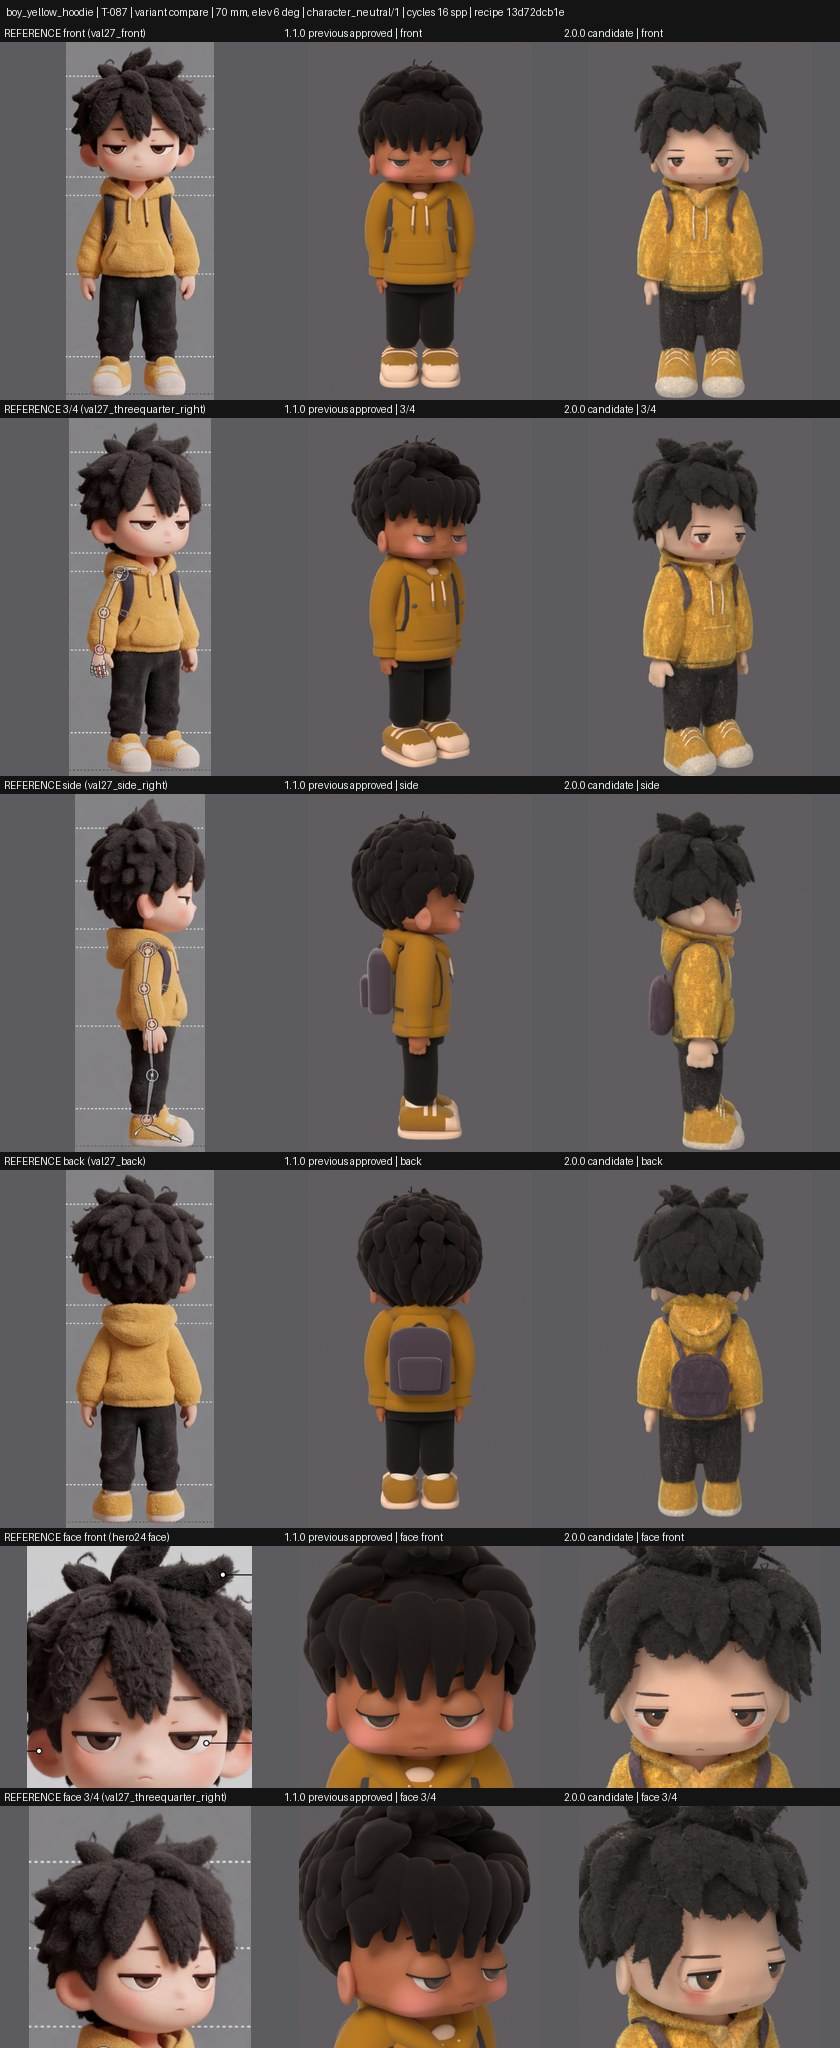
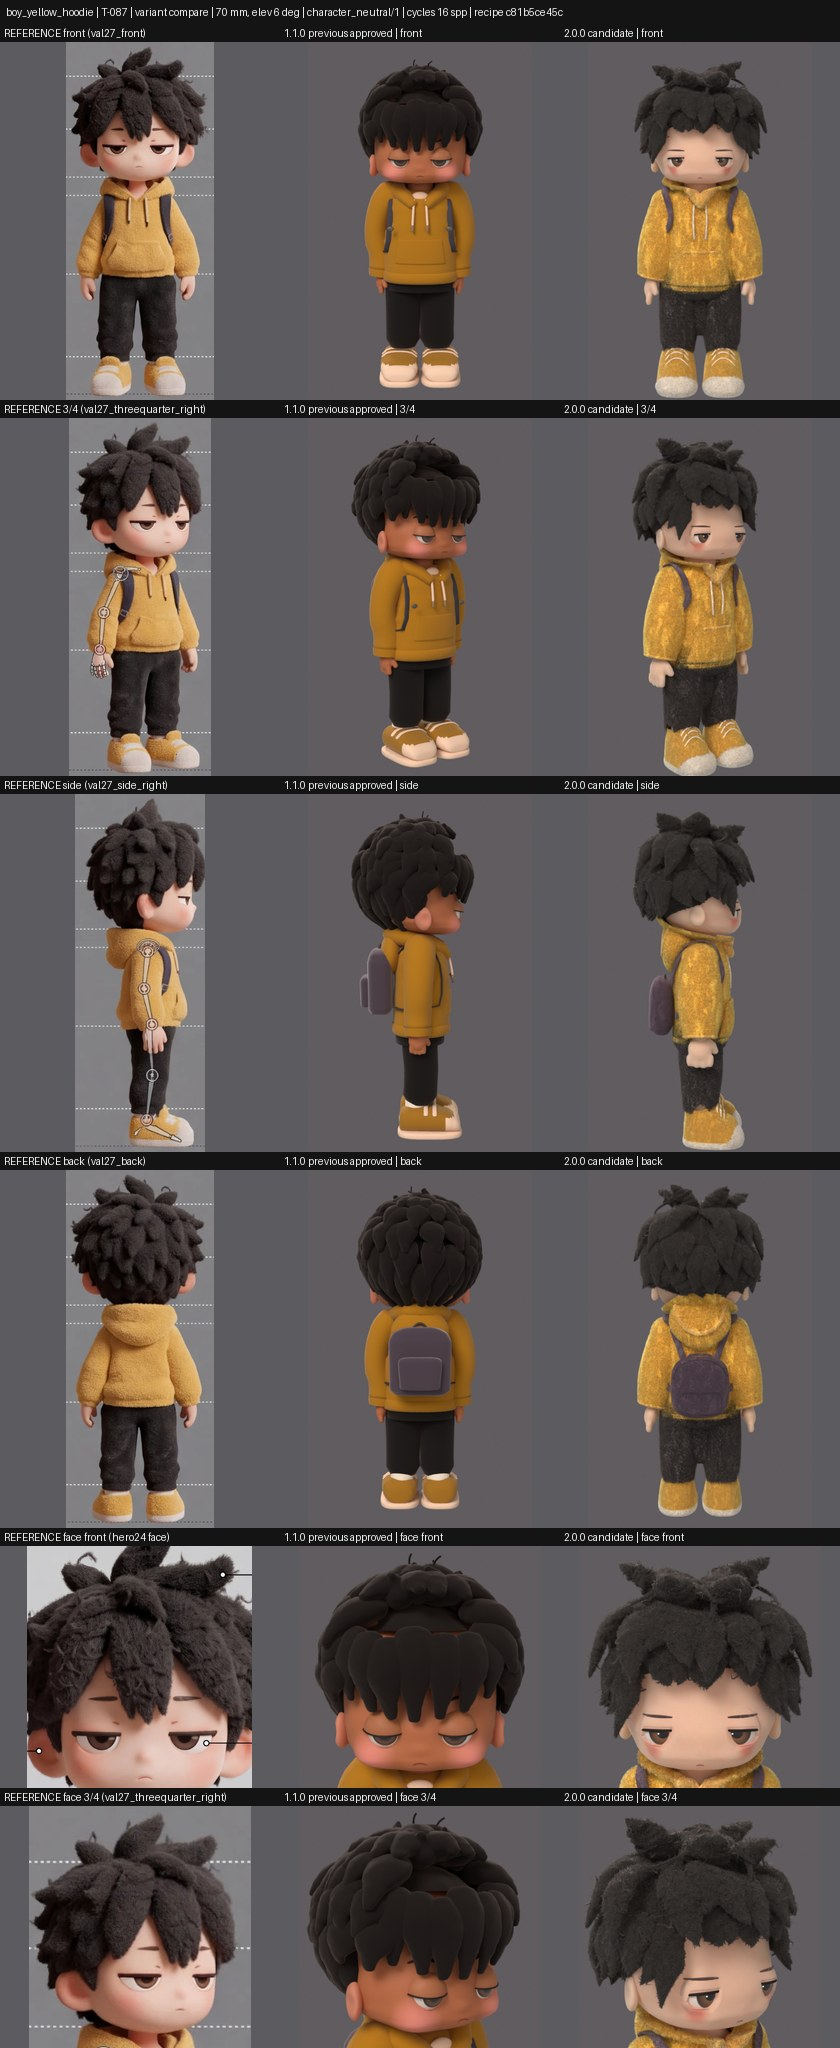
T-087: regression job flags >2-point fidelity drop (needs owner review, image checks unchanged) + test; strict sheet face rows framed on head bounds; regenerated boy sheet
Claude-Session: https://claude.ai/code/session_01NPjxeLy8LE79Ttrgoxqp6S

Changed region(s): [[0.681, 0.75, 0.9905, 1.0], [0.3405, 0.75, 0.65, 1.0]]

diff --git a/tools/regression/run.py b/tools/regression/run.py
@@ -10,7 +10,8 @@ For every character in assets/characters (or the given ones), in parallel:
   3. export     pipeline/charsys/export_engine.py (engine package; digest without the .blend byte hash)
   4. renders    pipeline/charsys/tools/groom_turnaround.py with the fixed cameras of tools/regression/views.json
                 (turnaround + face close-up, low samples, fixed seed, OIDN)
-  5. fidelity   tools/fidelity/run.py, score vs docs/evaluation/characters/fidelity_baseline.json (drop > 2 = FAIL)
+  5. fidelity   tools/fidelity/run.py, score vs docs/evaluation/characters/fidelity_baseline.json (drop > 2 = PASS,
+                flagged "needs owner review": T-087 rule change, tools/fidelity/ci.compare_score)
   6. compare    against the approved baseline docs/evaluation/regression/baselines/<id>/<spec version>/
 Characters whose spec inputs are unchanged versus --base must be identical to the approved baseline (= main):
 fingerprint byte-equal, export digest equal, every render within the measured noise threshold
@@ -40,6 +41,8 @@ HERE = Path(__file__).resolve().parent
 ROOT = HERE.parents[1]
 sys.path.insert(0, str(HERE))
 import tiers  # noqa: E402
+sys.path.insert(0, str(HERE.parent))
+from fidelity import ci as fidelity_ci  # noqa: E402  (T-087: one fidelity-drop policy for every gate path)
 
 VIEWS = HERE / "views.json"
 NOISE = HERE / "render_noise_threshold.json"
@@ -274,6 +277,21 @@ class Step(Exception):
     pass
 
 
+def fidelity_result(score: float, baseline: float, maximum: float) -> dict:
+    """Fidelity entry of a character result. T-087: a drop above `maximum` passes, flagged "needs owner review"
+    (tools/fidelity/ci.compare_score, the policy of every gate path); image checks are unaffected."""
+    drop = round(float(baseline) - float(score), 4)
+    policy = fidelity_ci.compare_score(score, baseline, maximum)
+    return {"score": round(float(score), 4), "baseline": baseline, "drop": drop, "maximum_drop": maximum,
+            "ok": policy.ok, "needs_owner_review": policy.needs_owner_review}
+
+
+def owner_review_note(result: dict) -> str:
+    f = result.get("measured", {}).get("fidelity") or {}
+    return (f"; {fidelity_ci.OWNER_REVIEW_FLAG.upper()}: fidelity drop {f['drop']:+.2f} > {f['maximum_drop']}"
+            if f.get("needs_owner_review") else "")
+
+
 def produce(cfg: dict, blender: str, out: Path, env: dict, fidelity: bool) -> dict:
     """Build, export and render one character from the checkout cfg["root"] (this one, or a worktree of the
     comparison ref) into `out`; return the measured data. Fingerprint tool, cameras and probe always come from this
@@ -346,9 +364,7 @@ def produce(cfg: dict, blender: str, out: Path, env: dict, fidelity: bool) -> di
             raise Step(f"fidelity failed (exit {code}); see {log.as_posix()}")
         score = json.loads((fout / "fidelity.json").read_text(encoding="utf-8"))["overall"]["score"]
         maximum = float(baseline["policy"]["maximum_score_drop"])
-        drop = round(float(entry["score"]) - float(score), 4)
-        result["fidelity"] = {"score": round(float(score), 4), "baseline": entry["score"], "drop": drop,
-                              "maximum_drop": maximum, "ok": drop <= maximum}
+        result["fidelity"] = fidelity_result(score, entry["score"], maximum)
     return result
 
 
@@ -423,7 +439,9 @@ def compare(cfg: dict, data: dict, out: Path, golden_root: Path, unchanged: bool
 
     if "fidelity" in data:
         f = data["fidelity"]
-        check("fidelity", f["ok"], f"{f['score']:.2f} vs {float(f['baseline']):.2f} (drop {f['drop']:+.2f}, max {f['maximum_drop']})")
+        check("fidelity", f["ok"], f"{f['score']:.2f} vs {float(f['baseline']):.2f} (drop {f['drop']:+.2f}, max {f['maximum_drop']})"
+              + (f"; {fidelity_ci.OWNER_REVIEW_FLAG.upper()} (drop above the maximum, PASS with warning)"
+                 if f.get("needs_owner_review") else ""))
     if reference is not None:
         label = f"identical to {ref_label}" if unchanged else f"vs {ref_label} (spec changed, owner review)"
         for aspect, equal, detail in identity_checks(data, out / "fingerprint.json", reference,
@@ -539,6 +557,7 @@ def summary(results: list[dict]) -> str:
         text = f"{state} {r['character']} ({kind})"
         if failed:
             text += ": " + "; ".join(f"{c['name']} {c['detail']}" for c in failed)
+        text += owner_review_note(r)
         parts.append(text)
     return "\n".join(parts)
 
@@ -549,7 +568,7 @@ def write_gate_report(path: Path, report: dict) -> None:
     for r in report["results"]:
         failed = [c for c in r["checks"] if not c["ok"]]
         fidelity = r.get("measured", {}).get("fidelity")
-        note = f", fidelity {fidelity['score']:.2f}" if fidelity else ""
+        note = (f", fidelity {fidelity['score']:.2f}" if fidelity else "") + owner_review_note(r)
         kind = ("references only, not buildable yet" if r.get("not_buildable") else
                 "unchanged, identical to main" if r.get("unchanged") else "spec changed, owner review")
         detail = "; ".join(f"{c['name']}: {c['detail']}" for c in failed) or kind + note

diff --git a/tools/fidelity/tests/test_regression_flag.py b/tools/fidelity/tests/test_regression_flag.py
@@ -1,0 +1,91 @@
+#!/usr/bin/env python3
+"""T-087: the per-character regression job (tools/regression/run.py) flags a fidelity drop above 2 points as
+"needs owner review" and exits 0, and still fails on an image regression. Blender steps are stubbed (produce)."""
+
+import importlib.util
+import json
+from pathlib import Path
+import sys
+import tempfile
+import unittest
+from unittest import mock
+
+ROOT = Path(__file__).resolve().parents[3]
+# loaded under its own name: tools/fidelity/run.py already owns the module name "run" in this test process
+_spec = importlib.util.spec_from_file_location("regression_run", ROOT / "tools" / "regression" / "run.py")
+RR = importlib.util.module_from_spec(_spec)
+_spec.loader.exec_module(RR)
+
+try:
+    from PIL import Image
+except ImportError:  # pragma: no cover
+    Image = None
+
+
+@unittest.skipIf(Image is None, "Pillow missing")
+class RegressionFidelityFlagTests(unittest.TestCase):
+    def setUp(self):
+        self.tmp = tempfile.TemporaryDirectory()
+        t = Path(self.tmp.name)
+        self.t = t
+        self.cfg = {"character": "probe", "spec_version": "1.0.0", "spec_inputs_sha256": "abc", "inputs": []}
+        gdir = t / "golden" / "probe" / "1.0.0"
+        (gdir / "images").mkdir(parents=True)
+        Image.new("RGBA", (16, 16), (100, 100, 100, 255)).save(gdir / "images" / "v.png")
+        fp = {"objects": {"head": {"coords_hash": "1"}}}
+        (gdir / "fingerprint.json").write_bytes(RR.canonical(fp))
+        golden = {"spec_inputs_sha256": "abc", "fingerprint_sha256": "F", "export": {"e": "1"}, "renders": {}}
+        (gdir / "golden.json").write_text(json.dumps(golden), encoding="utf-8")
+        self.fp = fp
+
+    def tearDown(self):
+        self.tmp.cleanup()
+
+    def job(self, score, render_colour):
+        """One per-character job (main --character probe) with a stubbed Blender produce step."""
+        def produce(cfg, blender, out, env, fidelity):
+            (out / "renders").mkdir(parents=True, exist_ok=True)
+            Image.new("RGBA", (16, 16), render_colour).save(out / "renders" / "v.png")
+            (out / "fingerprint.json").write_bytes(RR.canonical(self.fp))
+            data = {"fingerprint_sha256": "F", "export": {"e": "1"}, "renders": {"v": "x"}}
+            if fidelity:
+                data["fidelity"] = RR.fidelity_result(score, 64.0, 2.0)
+            return data
+        out, gate = self.t / f"out_{score}_{render_colour[0]}", self.t / f"gate_{score}_{render_colour[0]}.json"
+        with mock.patch.object(RR.tiers, "character_ids", return_value=["probe"]), \
+                mock.patch.object(RR.tiers, "character_config", return_value=dict(self.cfg)), \
+                mock.patch.object(RR, "produce", produce), mock.patch.object(RR, "blender_env", return_value={}), \
+                mock.patch("sys.stdout"):
+            code = RR.main(["--blender", "none", "--out", str(out), "--character", "probe",
+                            "--baselines", str(self.t / "golden"), "--gate-report", str(gate)])
+        return code, json.loads(gate.read_text(encoding="utf-8"))
+
+    def test_fidelity_result_policy(self):
+        self.assertEqual(RR.fidelity_result(62.0, 64.0, 2.0)["needs_owner_review"], False)
+        f = RR.fidelity_result(61.0, 64.0, 2.0)
+        self.assertTrue(f["ok"])
+        self.assertTrue(f["needs_owner_review"])
+        self.assertEqual(f["drop"], 3.0)
+
+    def test_drop_above_two_points_flags_and_exits_0(self):
+        code, gate = self.job(60.0, (100, 100, 100, 255))
+        self.assertEqual(code, 0)
+        self.assertEqual(gate["verdict"], "PASS")
+        detail = gate["checks"][0]["detail"]
+        self.assertIn("NEEDS OWNER REVIEW", detail)
+        self.assertIn("+4.00", detail)
+
+    def test_image_regression_still_fails(self):
+        code, gate = self.job(60.0, (160, 100, 100, 255))
+        self.assertEqual(code, 1)
+        self.assertEqual(gate["verdict"], "FAIL")
+        self.assertIn("renders", gate["checks"][0]["detail"])
+
+    def test_no_drop_no_flag(self):
+        code, gate = self.job(64.5, (100, 100, 100, 255))
+        self.assertEqual(code, 0)
+        self.assertNotIn("NEEDS OWNER REVIEW", gate["checks"][0]["detail"])
+
+
+if __name__ == "__main__":
+    unittest.main()

diff --git a/tools/review/blender_render.py b/tools/review/blender_render.py
@@ -6,7 +6,10 @@ job.json (written by tools/review/recipe.py, never by hand):
   {"out": dir, "engine": "cycles"|"workbench", "samples": n, "px": n, "lens_mm": f, "sensor_mm": f,
    "calibration": "character_neutral/1",
    "columns": [{"tag": str, "blend": path, "comparison_pose": {"upper_arm_fk_rotation_y_deg": f} | null}],
-   "views": [{"name": str, "yaw_deg": f, "elevation_deg": f, "target": [x, y, z], "frame_height_m": f, "aspect": f}]}
+   "views": [{"name": str, "yaw_deg": f, "elevation_deg": f, "target": [x, y, z], "frame_height_m": f, "aspect": f}
+             | {"name": str, ..., "fit": "head", "margin": f, "aspect": f}]}
+A view with "fit": "head" is framed on the head bounds (the lowest LM_chin to the highest renderable top, plus
+margin x that height above and margin_below (default 0.15) below), measured over ALL columns first, so every column still gets the same camera.
 
 Every column is rendered in this ONE run with the same fixed cameras (not framed per model), the same light rig (the
 shared calibration, re-aimed per camera direction like every other evaluation render), world, exposure, samples and
@@ -62,6 +65,47 @@ def arm_probe(rig):
     return out
 
 
+def open_column(col):
+    bpy.ops.wm.open_mainfile(filepath=os.path.abspath(col["blend"]))
+    rig = next((o for o in bpy.data.objects if o.type == "ARMATURE"), None)
+    if rig is not None and col.get("comparison_pose"):
+        apply_comparison_pose(rig, float(col["comparison_pose"]["upper_arm_fk_rotation_y_deg"]))
+    return bpy.context.scene, rig
+
+
+def head_bounds(sc):
+    """(chin z, top z) of the opened character: LM_chin (the builder's face landmark) and the highest point of the
+    renderable meshes/curves (evaluated bounding boxes, rig widgets excluded)."""
+    chin = bpy.data.objects.get("LM_chin")
+    if chin is None:
+        raise SystemExit("head framing needs the LM_chin landmark empty")
+    deps = bpy.context.evaluated_depsgraph_get()
+    top = max((o.evaluated_get(deps).matrix_world @ Vector(c)).z for o in sc.objects
+              if o.type in ("MESH", "CURVES") and not o.hide_render and not o.name.startswith("WGT")
+              for c in o.evaluated_get(deps).bound_box)
+    return chin.matrix_world.translation.z, top
+
+
+def fit_views(job):
+    """Resolves "fit": "head" views to one fixed target/frame height shared by every column."""
+    fits = [v for v in job["views"] if v.get("fit") == "head"]
+    if not fits:
+        return None
+    lo, hi = 1e9, -1e9
+    for col in job["columns"]:
+        sc, _ = open_column(col)
+        c, t = head_bounds(sc)
+        lo, hi = min(lo, c), max(hi, t)
+    for v in fits:
+        h = hi - lo
+        # LM_chin sits on the underside of the jaw, above the lowest visible chin/jaw line: more room below
+        bottom = lo - h * float(v.get("margin_below", 0.15))
+        top = hi + h * float(v.get("margin", 0.05))
+        v["target"] = [0.0, 0.0, round((bottom + top) / 2, 4)]
+        v["frame_height_m"] = round(top - bottom, 4)
+    return {"chin_z": round(lo, 4), "top_z": round(hi, 4)}
+
+
 def main():
     job = json.load(open(sys.argv[sys.argv.index("--") + 1]))
     out = os.path.abspath(job["out"])
@@ -71,6 +115,7 @@ def main():
     engine, spp, px = job["engine"], int(job["samples"]), int(job["px"])
     result = {"engine": engine, "samples": spp, "px": px, "lens_mm": lens, "sensor_mm": sensor,
               "calibration": job.get("calibration"), "blender": bpy.app.version_string, "columns": {}, "views": {}}
+    result["head_bounds"] = fit_views(job)
     for col in job["columns"]:
         t0 = time.time()
         bpy.ops.wm.open_mainfile(filepath=os.path.abspath(col["blend"]))

diff --git a/tools/review/recipe.py b/tools/review/recipe.py
@@ -264,9 +264,13 @@ def validate(recipe, root=ROOT, check_git=True):
     framing = cams.get("framing") or {}
     for f in ("body", "face"):
         fr = framing.get(f)
-        if not (isinstance(fr, dict) and isinstance(fr.get("target"), list) and len(fr["target"]) == 3
-                and float(fr.get("frame_height_m", 0)) > 0 and float(fr.get("aspect", 0)) > 0):
-            problems.append(f"cameras.framing.{f}: needs target [x, y, z], frame_height_m > 0 and aspect > 0")
+        fixed = (isinstance(fr, dict) and isinstance(fr.get("target"), list) and len(fr["target"]) == 3
+                 and float(fr.get("frame_height_m", 0)) > 0)
+        head = (isinstance(fr, dict) and f == "face" and fr.get("fit") == "head"
+                and 0 <= float(fr.get("margin", 0.05)) <= 0.5)
+        if not ((fixed or head) and float((fr or {}).get("aspect", 0)) > 0):
+            problems.append(f"cameras.framing.{f}: needs aspect > 0 and either target [x, y, z] + frame_height_m > 0"
+                            + (" or fit \"head\" (+ margin 0..0.5)" if f == "face" else ""))
     lens, elev = cams.get("lens_mm", 70.0), cams.get("elevation_deg")
     if not isinstance(elev, (int, float)):
         problems.append("cameras.elevation_deg: required (one elevation for every view: identical cameras)")
@@ -302,10 +306,13 @@ def validate(recipe, root=ROOT, check_git=True):
             problems.append(f"cameras.rows.{r}: no yaw (give yaw_deg or a reference_view)")
             continue
         fr = framing.get(kind) or {}
-        views.append({"name": r, "label": label, "framing": kind, "yaw_deg": float(yaw),
-                      "elevation_deg": float(elev) if isinstance(elev, (int, float)) else 0.0,
-                      "target": fr.get("target"), "frame_height_m": fr.get("frame_height_m"),
-                      "aspect": fr.get("aspect")})
+        view = {"name": r, "label": label, "framing": kind, "yaw_deg": float(yaw),
+                "elevation_deg": float(elev) if isinstance(elev, (int, float)) else 0.0,
+                "target": fr.get("target"), "frame_height_m": fr.get("frame_height_m"), "aspect": fr.get("aspect")}
+        if fr.get("fit") == "head":  # framed on the head bounds of all columns (one camera for every column)
+            view.update(fit="head", margin=float(fr.get("margin", 0.05)),
+                        margin_below=float(fr.get("margin_below", 0.15)), target=None, frame_height_m=None)
+        views.append(view)
         refs[r] = ref
     res["cameras"] = {"lens_mm": float(lens), "sensor_mm": float(cams.get("sensor_mm", 36.0)), "views": views}
     res["references"] = refs
@@ -433,7 +440,8 @@ def render_job(resolved, cols, out, settings):
     return {"out": out, "engine": settings["engine"], "samples": settings["samples"], "px": settings["px"],
             "lens_mm": resolved["cameras"]["lens_mm"], "sensor_mm": resolved["cameras"]["sensor_mm"],
             "calibration": resolved["light"]["calibration"], "columns": cols,
-            "views": [{k: v[k] for k in ("name", "yaw_deg", "elevation_deg", "target", "frame_height_m", "aspect")}
+            "views": [{k: v[k] for k in ("name", "yaw_deg", "elevation_deg", "target", "frame_height_m", "aspect",
+                                          "fit", "margin", "margin_below") if k in v}
                       for v in resolved["cameras"]["views"]]}
 
 

diff --git a/tools/fidelity/tests/test_ci.py b/tools/fidelity/tests/test_ci.py
@@ -63,7 +63,7 @@ class AffectedCharacterTests(unittest.TestCase):
 
 
 def load_tests(loader, tests, pattern):
-    """CI runs this file (tools/check_all.py); it also runs the T-087 tests of tools/fidelity/run.py and of the review
+    """CI runs this file (tools/check_all.py); it also runs the T-087 tests of tools/fidelity/run.py, tools/regression/run.py and of the review
     recipe (tools/review/tests/test_recipe.py)."""
     here = Path(__file__).resolve().parent
     for path in (here, here.parents[1] / "review" / "tests"):
@@ -71,7 +71,9 @@ def load_tests(loader, tests, pattern):
             sys.path.insert(0, str(path))
     import test_run  # noqa: E402
     import test_recipe  # noqa: E402
+    import test_regression_flag  # noqa: E402
     tests.addTests(loader.loadTestsFromModule(test_run))
+    tests.addTests(loader.loadTestsFromModule(test_regression_flag))
     tests.addTests(loader.loadTestsFromModule(test_recipe))
     return tests
 

diff --git a/tools/review/tests/test_recipe.py b/tools/review/tests/test_recipe.py
@@ -97,6 +97,16 @@ class ValidateTests(unittest.TestCase):
         r["cameras"]["rows"]["side"]["yaw_deg"] = 90
         refused(self, r, "differs from the reference yaw")
 
+    def test_face_rows_can_fit_the_head(self):
+        res = R.validate(copy.deepcopy(BOY), check_git=False)
+        face = [v for v in res["cameras"]["views"] if v["framing"] == "face"]
+        self.assertTrue(all(v["fit"] == "head" and v["target"] is None for v in face))
+        job = R.render_job(res, [], "/x", res["preview"])
+        self.assertEqual({v["fit"] for v in job["views"] if "fit" in v}, {"head"})
+        r = copy.deepcopy(BOY)
+        r["cameras"]["framing"]["body"] = {"fit": "head", "aspect": 1.6}  # body rows need a fixed camera
+        refused(self, r, "cameras.framing.body")
+
     def test_light_and_cheap_preview(self):
         r = copy.deepcopy(BOY)
         r["light"]["calibration"] = "studio_bright/9"

diff --git a/docs/process/REVIEW_RECIPE.md b/docs/process/REVIEW_RECIPE.md
@@ -11,7 +11,7 @@ wasted on the wrong pose or version. Tool: `tools/review/recipe.py`. Examples:
 | `baseline.version` | the published baseline (`versions/index.json`); must be the current approved version unless `allow_not_current` is true |
 | `candidate` | one of: `{"version"}` (published), `{"spec", "overrides", "sha"}` (built into `<out>/build/`), `{"blend"}` |
 | `compare` | `variant` (`compare` = arms down, `master` = A-pose) and the matching `pose` (`arms_down` / `apose`) |
-| `cameras` | lens, one elevation, body/face framing (fixed target and frame height, not framed per model) and the six rows: `front`, `threequarter`, `side`, `back`, `face_front`, `face_threequarter`. A row names a `reference_view` (its yaw comes from `reference_index.json`) or a reference file + crop + `yaw_deg` |
+| `cameras` | lens, one elevation, body/face framing (fixed target and frame height; face rows may use `"fit": "head"`: head bounds of all columns, one camera for all) and the six rows: `front`, `threequarter`, `side`, `back`, `face_front`, `face_threequarter`. A row names a `reference_view` (its yaw comes from `reference_index.json`) or a reference file + crop + `yaw_deg` |
 | `light.calibration` | the light rig (`pipeline/charsys/render_calibration.json`, normally `character_neutral/1`) |
 | `render` / `preview` | samples and width of the sheet render (Cycles) and of the cheap preview (Cycles ≤ 8 spp or Workbench, ≤ 240 px) |
 | `ai_target` (optional) | Higgsfield images per row; shown as a column labelled "AI target" |

diff --git a/docs/evaluation/process/T-087/README.md b/docs/evaluation/process/T-087/README.md
@@ -8,6 +8,8 @@
   - `boy_1.1.0_vs_2.0.0/preview/preview.jpg` + `preview.json`: the recorded first frame the sheet required.
   - `recipe.resolved.json`, `sheet.json` (cameras, pose probe: upper arm 5.5 deg (1.1.0) and 12 deg (2.0.0) from
     straight down, Blender version, seconds), `log.txt`.
+  - Face rows use `"fit": "head"`: framed on the head bounds of all columns (lowest `LM_chin` to the highest
+    rendered point, +15% below / +5% above), measured once, one camera for every column (Supervisor fix).
   - The first `sheet` call without a preview was refused; a preview of an earlier recipe edit was rejected as
     "made for a different recipe" (both in the run log of this task, not repeated here).
 - `girl_0.10.0_vs_0.11.0.recipe.json`: the T-081 strict comparison as a recipe; the girl's references are an A-pose
